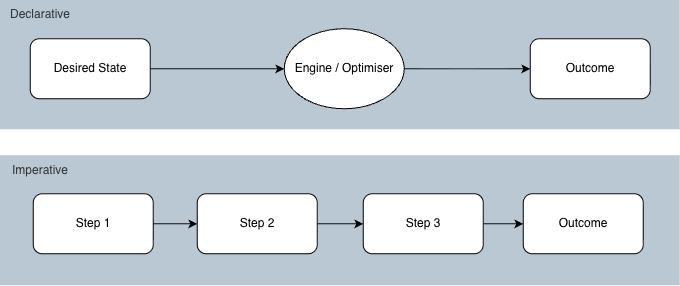
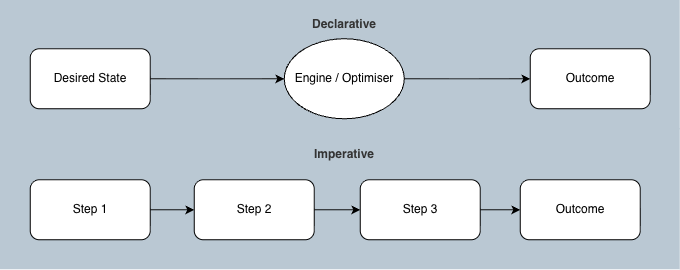
Make the site dark-only; remove the light/dark toggle
- globals.css: promote the dark palette to the sole :root palette, add
  color-scheme: dark, and drop the prefers-color-scheme and
  [data-theme='dark'] override blocks. Syntax highlighting now always
  uses the dark shiki tokens.
- layout.tsx: remove the pre-paint theme <script> and the now-unneeded
  suppressHydrationWarning.
- Header: remove the ThemeToggle.
- Mermaid: render against the dark palette unconditionally.
- Delete ThemeToggle.tsx, ThemeToggle.module.css, and lib/useTheme.ts.

Note: docs/design/design.md still documents the light palette as source
of truth; it no longer matches the dark-only implementation.

Claude-Session: https://claude.ai/code/session_01Npymw9oPygUYQZmdrkQM3a

diff --git a/src/app/globals.css b/src/app/globals.css
@@ -5,32 +5,34 @@
  */
 
 :root {
-  /* --- Color (design.md §2) --- */
-  --color-bg: #fafaf8;
-  --color-surface: #f3f1ea;
-  --color-code-bg: #f5f3ec;
-  --color-text: #1a1a1a;
-  --color-text-body: #38362f;
-  --color-text-muted: #6b6862;
-  --color-text-faint: #9b978e;
-  --color-accent: #24625f;
-  --color-accent-hover: #1a4a47;
-  --color-accent-soft: #cfe0de;
-  --color-border: #e4e2db;
-  --color-hair: #eae7df;
-  --color-verify: #cfe0de;
-  --color-selection: #cfe0de;
+  color-scheme: dark;
+
+  /* --- Color (design.md §2, dark ground — the site is dark-only) --- */
+  --color-bg: #171613;
+  --color-surface: #201e1a;
+  --color-code-bg: #1c1a16;
+  --color-text: #f4f2ec;
+  --color-text-body: #d6d2c7;
+  --color-text-muted: #a09b8e;
+  --color-text-faint: #736e62;
+  --color-accent: #7cb3ac;
+  --color-accent-hover: #95c5bf;
+  --color-accent-soft: #33514d;
+  --color-border: #302d27;
+  --color-hair: #26231e;
+  --color-verify: #33514d;
+  --color-selection: #33514d;
 
   /* Callout variants */
-  --callout-note-rule: #24625f;
-  --callout-note-fill: #f3f1ea;
-  --callout-note-label: #24625f;
-  --callout-tip-rule: #4a7c3f;
-  --callout-tip-fill: #f1f4ec;
-  --callout-tip-label: #3f6b36;
-  --callout-warning-rule: #a3742f;
-  --callout-warning-fill: #f7f2e8;
-  --callout-warning-label: #8a6222;
+  --callout-note-rule: #7cb3ac;
+  --callout-note-fill: #1b1f1e;
+  --callout-note-label: #8fc0ba;
+  --callout-tip-rule: #7aa96b;
+  --callout-tip-fill: #1a1f18;
+  --callout-tip-label: #93bf85;
+  --callout-warning-rule: #c6a05f;
+  --callout-warning-fill: #211c14;
+  --callout-warning-label: #d3ac6b;
 
   /* --- Type families (design.md §3), wired to next/font in fonts.ts --- */
   --font-serif: var(--font-newsreader), Georgia, 'Times New Roman', serif;
@@ -59,67 +61,6 @@
     --gutter: 24px;
     --header-pad-y: 22px;
   }
-}
-
-/*
- * --- Dark theme ---
- * Warm dark ground mirroring the light palette; the teal accent is lightened
- * for contrast. Applied when the visitor's OS prefers dark (unless they forced
- * light) and whenever they explicitly pick dark via the header toggle.
- * The two selectors carry the same token block by design.
- */
-@media (prefers-color-scheme: dark) {
-  :root:not([data-theme='light']) {
-    --color-bg: #171613;
-    --color-surface: #201e1a;
-    --color-code-bg: #1c1a16;
-    --color-text: #f4f2ec;
-    --color-text-body: #d6d2c7;
-    --color-text-muted: #a09b8e;
-    --color-text-faint: #736e62;
-    --color-accent: #7cb3ac;
-    --color-accent-hover: #95c5bf;
-    --color-accent-soft: #33514d;
-    --color-border: #302d27;
-    --color-hair: #26231e;
-    --color-verify: #33514d;
-    --color-selection: #33514d;
-    --callout-note-rule: #7cb3ac;
-    --callout-note-fill: #1b1f1e;
-    --callout-note-label: #8fc0ba;
-    --callout-tip-rule: #7aa96b;
-    --callout-tip-fill: #1a1f18;
-    --callout-tip-label: #93bf85;
-    --callout-warning-rule: #c6a05f;
-    --callout-warning-fill: #211c14;
-    --callout-warning-label: #d3ac6b;
-  }
-}
-
-:root[data-theme='dark'] {
-  --color-bg: #171613;
-  --color-surface: #201e1a;
-  --color-code-bg: #1c1a16;
-  --color-text: #f4f2ec;
-  --color-text-body: #d6d2c7;
-  --color-text-muted: #a09b8e;
-  --color-text-faint: #736e62;
-  --color-accent: #7cb3ac;
-  --color-accent-hover: #95c5bf;
-  --color-accent-soft: #33514d;
-  --color-border: #302d27;
-  --color-hair: #26231e;
-  --color-verify: #33514d;
-  --color-selection: #33514d;
-  --callout-note-rule: #7cb3ac;
-  --callout-note-fill: #1b1f1e;
-  --callout-note-label: #8fc0ba;
-  --callout-tip-rule: #7aa96b;
-  --callout-tip-fill: #1a1f18;
-  --callout-tip-label: #93bf85;
-  --callout-warning-rule: #c6a05f;
-  --callout-warning-fill: #211c14;
-  --callout-warning-label: #d3ac6b;
 }
 
 /* --- Reset --- */
@@ -485,15 +426,10 @@ a {
   animation: reveal-up var(--dur-slow) var(--ease-out) both;
 }
 
-/* Dual-theme syntax highlighting: swap to the dark token colors in dark mode.
-   rehype-pretty-code emits --shiki-light / --shiki-dark on each token span. */
-:root[data-theme='dark'] pre code span {
+/* Syntax highlighting: the site is dark-only, so always use the dark token
+   colors. rehype-pretty-code emits --shiki-light / --shiki-dark per span. */
+pre code span {
   color: var(--shiki-dark) !important;
-}
-@media (prefers-color-scheme: dark) {
-  :root:not([data-theme='light']) pre code span {
-    color: var(--shiki-dark) !important;
-  }
 }
 
 /* --- Print (design.md §7): the CV page is the résumé --- */

diff --git a/src/components/Mermaid.tsx b/src/components/Mermaid.tsx
@@ -1,35 +1,23 @@
 'use client'
 
 import { useEffect, useId, useRef, useState } from 'react'
-import { useTheme } from '@/lib/useTheme'
 import styles from './Mermaid.module.css'
 
+// The site is dark-only, so mermaid always renders against the dark ground.
 const THEME_VARS = {
-  light: {
-    background: '#ffffff',
-    mainBkg: '#ffffff',
-    primaryColor: '#ffffff',
-    primaryBorderColor: '#24625f',
-    nodeBorder: '#24625f',
-    primaryTextColor: '#2f2d28',
-    lineColor: '#9b978e',
-    fontSize: '12px',
-  },
-  dark: {
-    background: '#1c1a16',
-    mainBkg: '#201e1a',
-    primaryColor: '#201e1a',
-    primaryBorderColor: '#7cb3ac',
-    nodeBorder: '#7cb3ac',
-    primaryTextColor: '#d6d2c7',
-    lineColor: '#736e62',
-    fontSize: '12px',
-  },
+  background: '#1c1a16',
+  mainBkg: '#201e1a',
+  primaryColor: '#201e1a',
+  primaryBorderColor: '#7cb3ac',
+  nodeBorder: '#7cb3ac',
+  primaryTextColor: '#d6d2c7',
+  lineColor: '#736e62',
+  fontSize: '12px',
 } as const
 
 /**
  * Client-rendered mermaid diagram, styled as a figure (design.md §5).
- * Strokes/fills are keyed to the palette and re-render when the theme changes.
+ * Strokes/fills are keyed to the dark palette (design.md §2).
  */
 export default function Mermaid({
   chart,
@@ -41,7 +29,6 @@ export default function Mermaid({
   const rawId = useId().replace(/[^a-zA-Z0-9]/g, '')
   const ref = useRef<HTMLDivElement>(null)
   const [svg, setSvg] = useState<string>('')
-  const theme = useTheme()
 
   useEffect(() => {
     let cancelled = false
@@ -53,10 +40,10 @@ export default function Mermaid({
         // 'base' is the only built-in theme that honours themeVariables.
         theme: 'base',
         fontFamily: 'var(--font-mono), ui-monospace, monospace',
-        themeVariables: THEME_VARS[theme],
+        themeVariables: THEME_VARS,
       })
       try {
-        const { svg } = await mermaid.render(`m-${rawId}-${theme}`, chart)
+        const { svg } = await mermaid.render(`m-${rawId}`, chart)
         if (!cancelled) setSvg(svg)
       } catch {
         if (!cancelled) setSvg('')
@@ -65,7 +52,7 @@ export default function Mermaid({
     return () => {
       cancelled = true
     }
-  }, [chart, rawId, theme])
+  }, [chart, rawId])
 
   return (
     <figure className={styles.figure}>

diff --git a/src/app/layout.tsx b/src/app/layout.tsx
@@ -37,17 +37,8 @@ export default function RootLayout({
     <html
       lang="en"
       className={`${newsreader.variable} ${inter.variable} ${jetbrainsMono.variable}`}
-      suppressHydrationWarning
     >
       <body>
-        <script
-          // Apply the saved theme before paint to avoid a flash. No stored
-          // value means the CSS falls back to the OS preference.
-          dangerouslySetInnerHTML={{
-            __html:
-              "(function(){try{var t=localStorage.getItem('theme');if(t==='dark'||t==='light'){document.documentElement.setAttribute('data-theme',t);}}catch(e){}})();",
-          }}
-        />
         <Header />
         <main className="main">{children}</main>
         <Footer />

diff --git a/src/components/Header.tsx b/src/components/Header.tsx
@@ -4,7 +4,6 @@ import Link from 'next/link'
 import { usePathname } from 'next/navigation'
 import { useState } from 'react'
 import { nav, site } from '@/lib/site'
-import ThemeToggle from './ThemeToggle'
 import styles from './Header.module.css'
 
 export default function Header() {
@@ -33,8 +32,6 @@ export default function Header() {
               </Link>
             ))}
           </nav>
-
-          <ThemeToggle />
 
           <button
             type="button"
